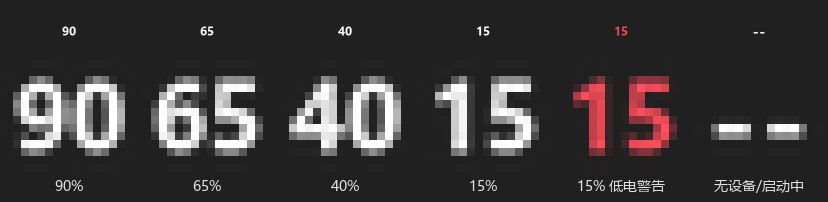
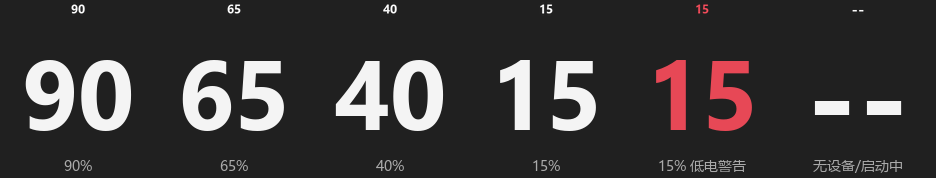
docs(readme): 配图改原生大画布渲染，替换模糊的放大截图
信哥反馈 README 配图「过于模糊」：旧方案把 32px 画布缩到 16px 再用
NEAREST 放大 8 倍，先降后升 + 最近邻插值，出来又糊又块。

新方案（tools/render_icon_preview.py 重写）：
- 主图 = icons.py 按 spec.size 等比缩放的特性，直接 size=128 原生渲染，
  零缩放损耗，边缘清晰（与真实托盘观感一致）
- 上排小图 = 32→16 LANCZOS 降采样后 1:1 原大贴图，即托盘里的真实样子
- README 首图宽 640→720，说明文字同步更正（"下排=放大"已不存在）

diff --git a/tools/render_icon_preview.py b/tools/render_icon_preview.py
@@ -8,7 +8,11 @@
     assets/tray-icons-light.png   浅色任务栏底色
     assets/tray-icons-warning.png 低电量警告红
 
-每张图 = 一排「真实 16px 显示」+ 下方一行对应放大图，外加电量刻度标注。
+清晰度策略（2026-10-15 信哥定稿：上一版「16px 放大 8 倍」又糊又块，废弃）：
+  - 大图 = **原生大画布渲染**（icons.py 本身按 spec.size 等比缩放，size=128
+    直接得到清晰边缘，零缩放损耗）
+  - 小图 = 32px 画布 LANCZOS 降到 16px 后 **1:1 原大贴图**（托盘里的真实样子，
+    无任何放大，自然不糊）
 ⚠ 图标改版后请重跑本脚本刷新 README 配图，别手改 PNG。
 """
 from __future__ import annotations
@@ -23,10 +27,11 @@ sys.path.insert(0, os.path.join(os.path.dirname(__file__), "..", "src"))
 from batbar.icons import IconSpec, render_icon  # noqa: E402
 
 OUT_DIR = os.path.join(os.path.dirname(__file__), "..", "assets")
-CANVAS = 32          # 图标画布（同运行时）
-SHOW = 16            # 托盘真实显示尺寸
-ZOOM = 8             # 放大倍数
-CELL_PAD = 10
+CANVAS = 32     # 图标画布（同运行时）
+SHOW = 16       # 托盘真实显示尺寸（1:1 原大展示）
+BIG = 128       # 大图原生渲染画布（不是放大，是直接画这么大）
+CELL_PAD = 14
+ROW_GAP = 8
 
 # (percent, warning, 刻度说明)
 CASES = [
@@ -52,40 +57,37 @@ def _cjk_font(size: int = 14):
     return ImageFont.load_default()
 
 
-def icon(percent, warning, light):
+def icon(percent, warning, light, size=CANVAS):
     return Image.open(io.BytesIO(render_icon(IconSpec(
-        percent, False, CANVAS, light_taskbar=light, warning=warning,
+        percent, False, size, light_taskbar=light, warning=warning,
     )))).convert("RGBA")
 
 
 def strip(bg: tuple[int, int, int], light: bool, warning_all: bool,
-          path: str, label_h: int = 22, cases=None) -> None:
+          path: str, cases=None) -> None:
     cases = cases or CASES
-    cell_w = SHOW + CELL_PAD * 2
-    zoom_w = ZOOM * SHOW
-    W = len(cases) * max(cell_w, zoom_w + CELL_PAD)
-    H = label_h + SHOW + 6 + zoom_w + label_h + 8
+    cell = BIG + CELL_PAD * 2
+    W = len(cases) * cell
+    label_h = 20
+    H = SHOW + ROW_GAP + BIG + label_h + 6
     im = Image.new("RGB", (W, H), bg)
     d = ImageDraw.Draw(im)
-    fg = (30, 30, 30) if light else (225, 225, 225)
+    fg = (60, 60, 60) if light else (170, 170, 170)
     font = _cjk_font()
 
     for i, (pct, warn, caption) in enumerate(cases):
         w = warning_all or warn
-        ic = icon(pct, w, light)
-        s16 = ic.resize((SHOW, SHOW), Image.LANCZOS)
-        x = i * max(cell_w, zoom_w + CELL_PAD)
-
-        # 放大图（主体，居中）
-        big = s16.resize((zoom_w, zoom_w), Image.NEAREST)
-        im.paste(big, (x + (max(cell_w, zoom_w + CELL_PAD) - zoom_w) // 2,
-                       label_h + SHOW + 6), big)
-        # 真实 16px（贴在放大图上方居中）
-        im.paste(s16, (x + (max(cell_w, zoom_w + CELL_PAD) - SHOW) // 2, label_h), s16)
+        x0 = i * cell
+        # 上排：托盘真实大小（32→16 LANCZOS，1:1 贴图，无放大）
+        s16 = icon(pct, w, light).resize((SHOW, SHOW), Image.LANCZOS)
+        im.paste(s16, (x0 + (cell - SHOW) // 2, 0), s16)
+        # 主图：原生大画布渲染（清晰边缘，零缩放）
+        big = icon(pct, w, light, size=BIG)
+        im.paste(big, (x0 + CELL_PAD, SHOW + ROW_GAP), big)
         # 刻度说明
         tw = d.textlength(caption, font=font)
-        d.text((x + (max(cell_w, zoom_w + CELL_PAD) - tw) / 2,
-                label_h + SHOW + 6 + zoom_w + 4), caption, fill=fg, font=font)
+        d.text((x0 + (cell - tw) / 2, SHOW + ROW_GAP + BIG + 4),
+               caption, fill=fg, font=font)
 
     os.makedirs(OUT_DIR, exist_ok=True)
     im.save(path)

diff --git a/README.md b/README.md
@@ -13,9 +13,9 @@
 ![Python](https://img.shields.io/badge/Python-3.11%2B-3776AB?style=flat-square)
 ![Tests](https://img.shields.io/badge/tests-518%20passed-brightgreen?style=flat-square)
 
-<img src="assets/tray-icons-dark.png" width="640" alt="托盘图标预览"/>
+<img src="assets/tray-icons-dark.png" width="720" alt="托盘图标预览"/>
 
-*图标由程序实时渲染：电量百分比 · 低电变红 · 无设备显示 `--`（上排 = 真实 16px，下排 = 放大）*
+*图标由程序实时渲染（大图 = 128px 原生渲染，小图 = 托盘真实 16px 1:1）：电量百分比 · 低电变红 · 无设备显示 `--`*
 
 </div>
 
